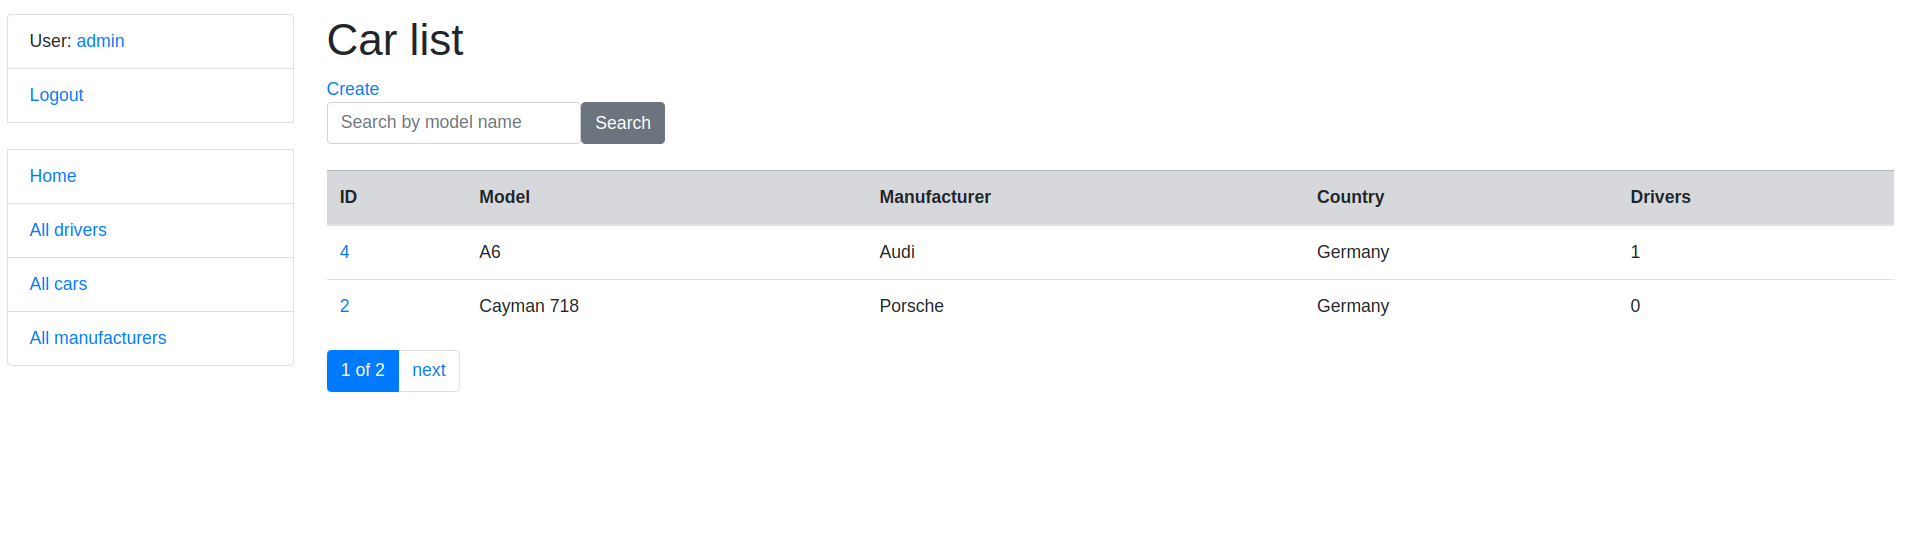
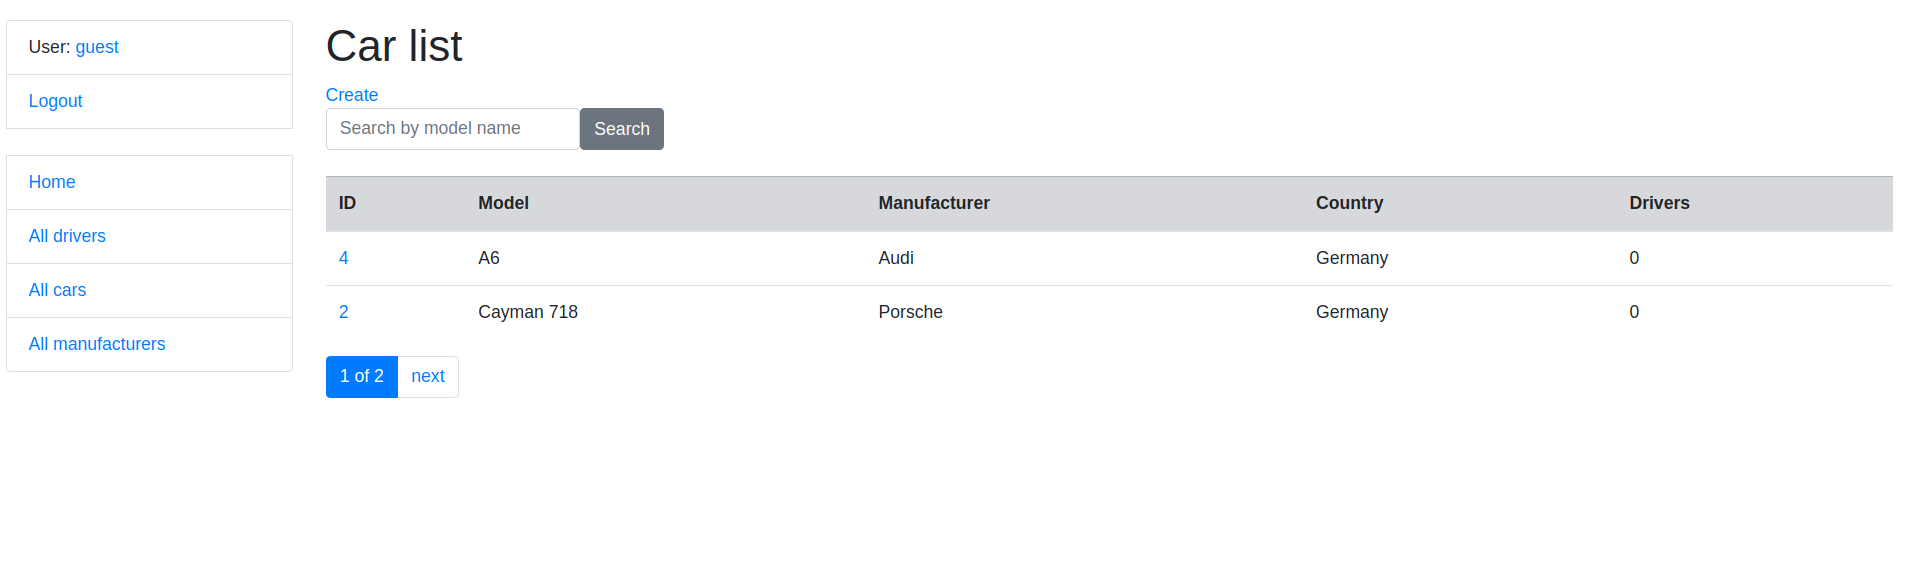
edited README

diff --git a/README.md b/README.md
@@ -1,1 +1,37 @@
-# taxi-service
+## Taxi-service
+
+Is a Django-based Educational Project to manage drivers, cars and manufacturers in a taxi service with simple authentication.
+
+## Check it out!
+
+[Taxi project deployed to Heroku](https://py-taxi-service.herokuapp.com/)
+
+## Installation
+
+Python3 must be already installed
+
+```shell
+git clone https://github.com/nikon4uk/py-taxi-service.git
+python3 -m venv venv
+source venv/bin/activate
+pip install -r requirements.txt
+python manage.py runserver # starts Django Server
+```
+
+## Features
+
+* Authentication functionality for Driver/User
+* Managing cars drivers add manufacturers directly from website
+* Powerful admin panel for advanced managing
+
+
+## Demo
+Home page
+![Website Home Page](demo_home.png)
+Car list page
+![Website Interface](demo_cars.png)
+
+## Access
+Demo full accesses for guests: 
+* Username - guest
+* Password - easypassword
